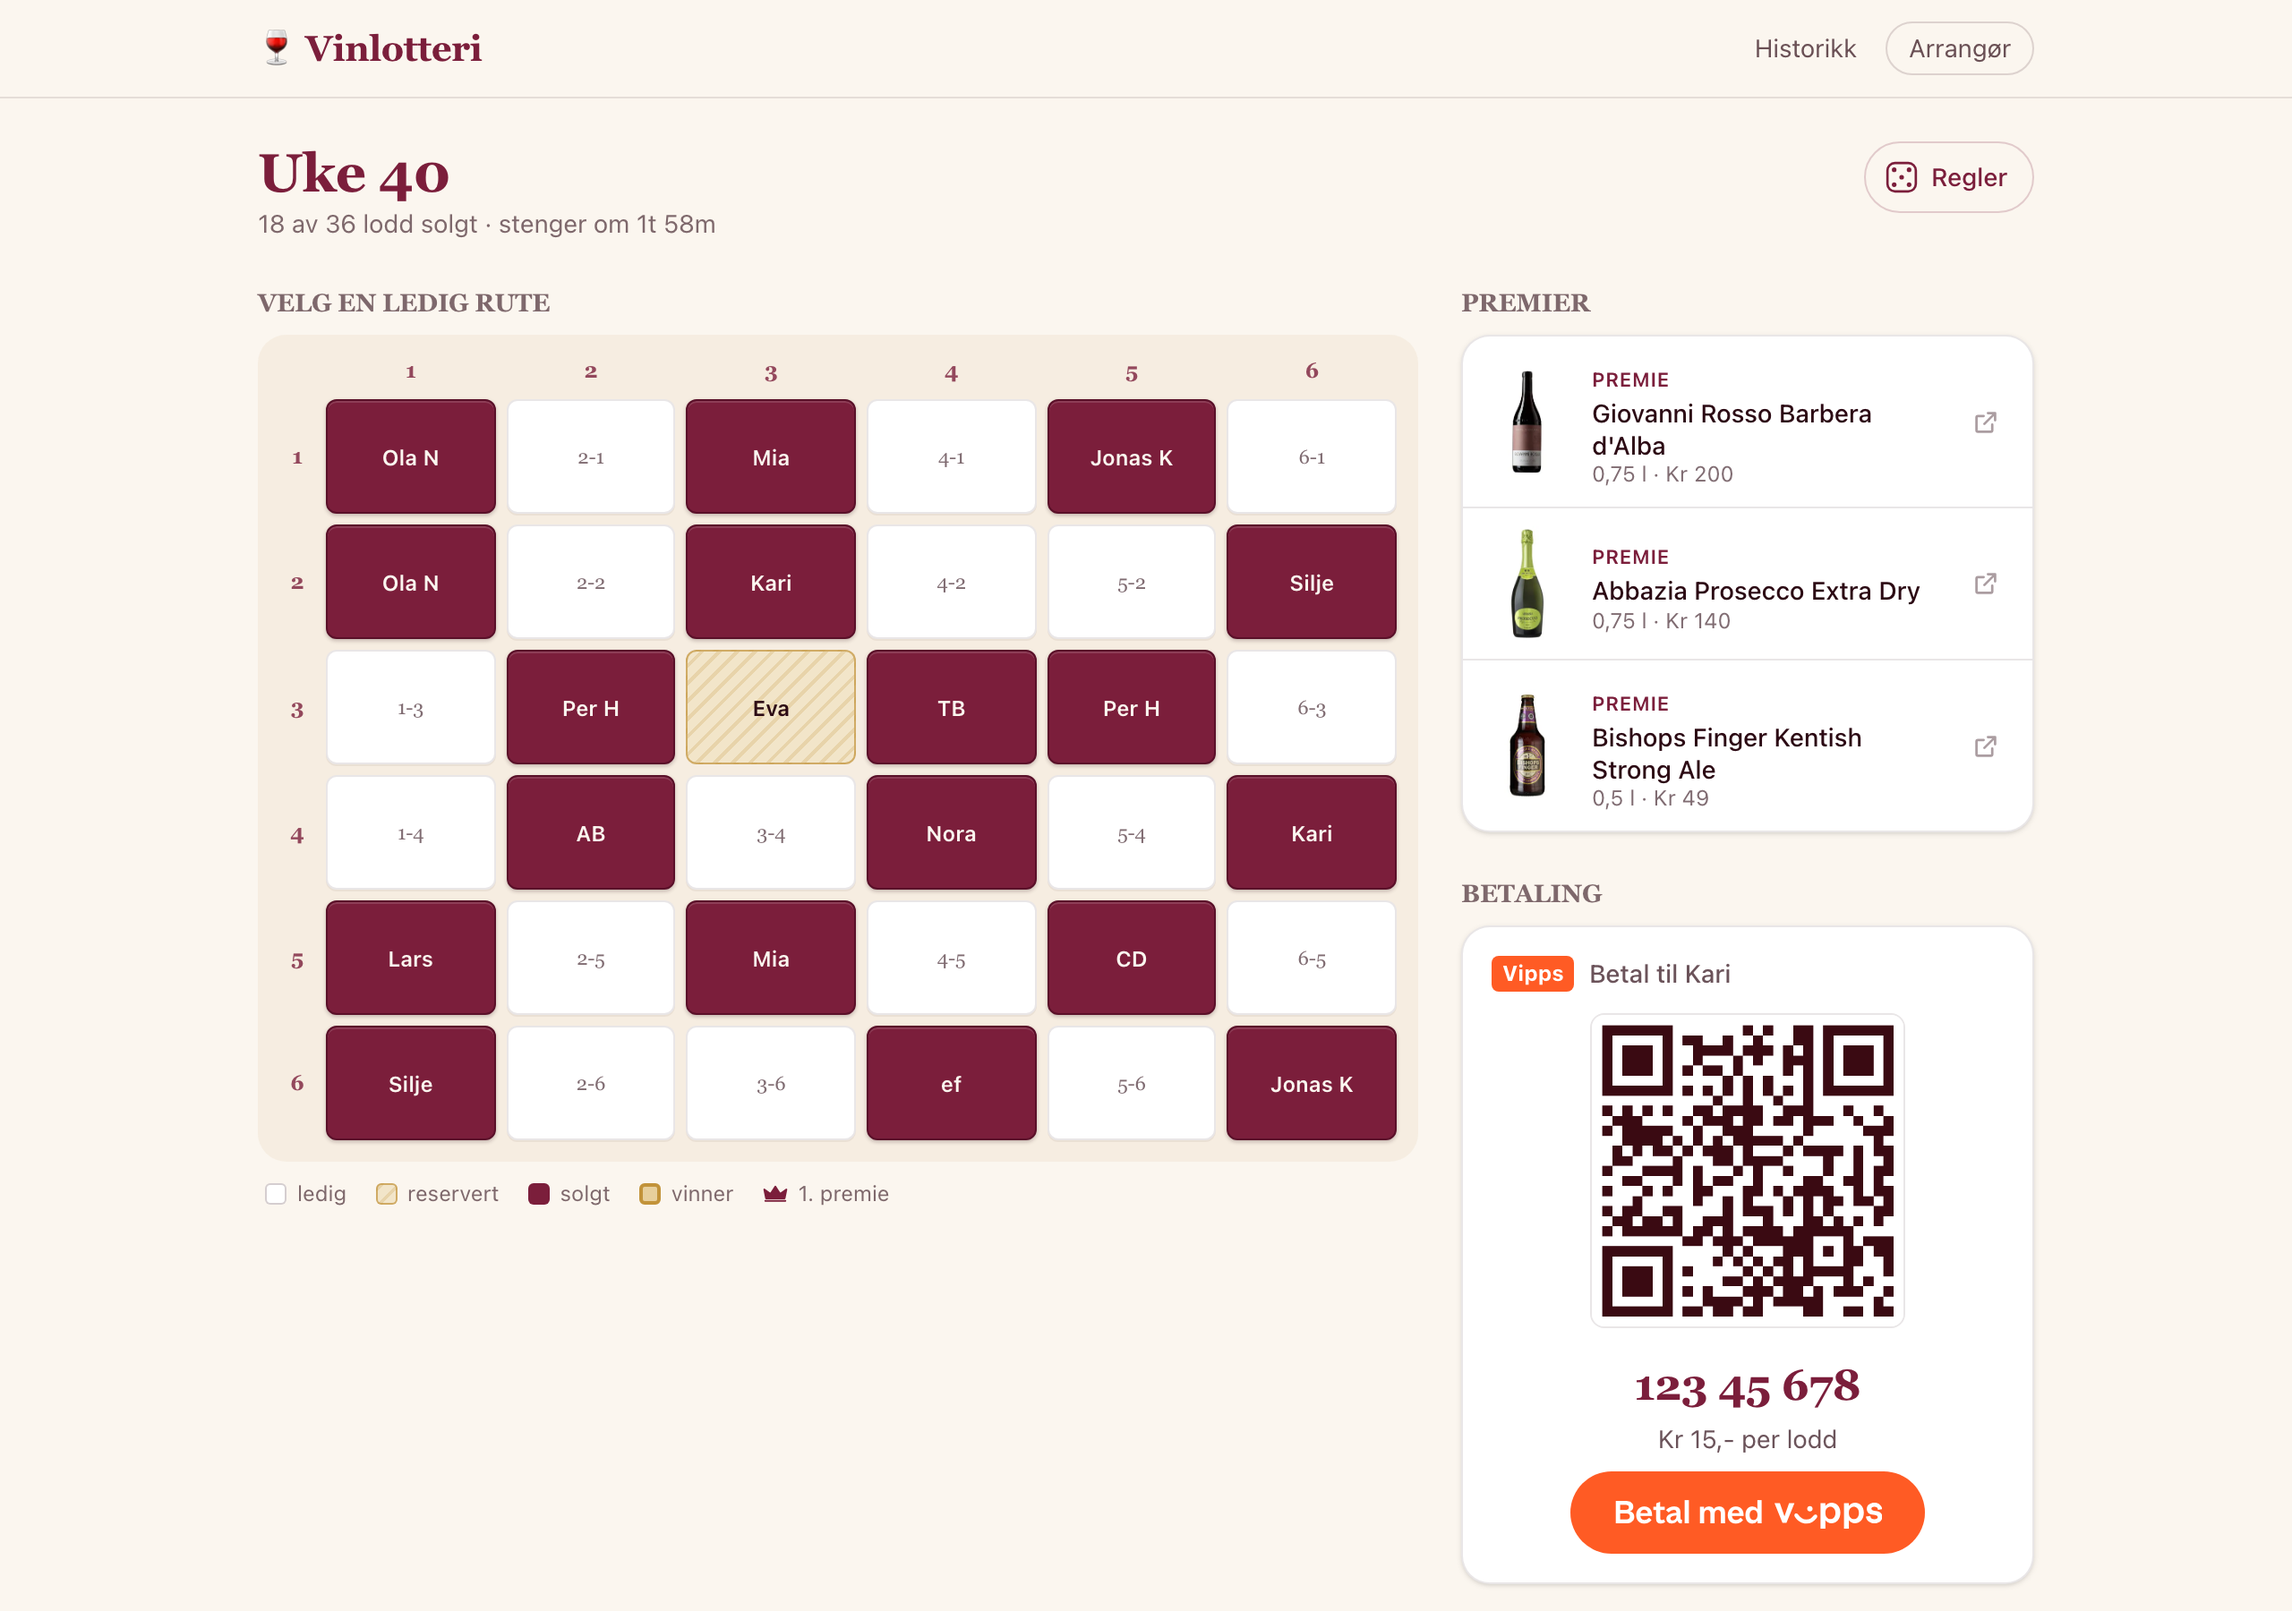
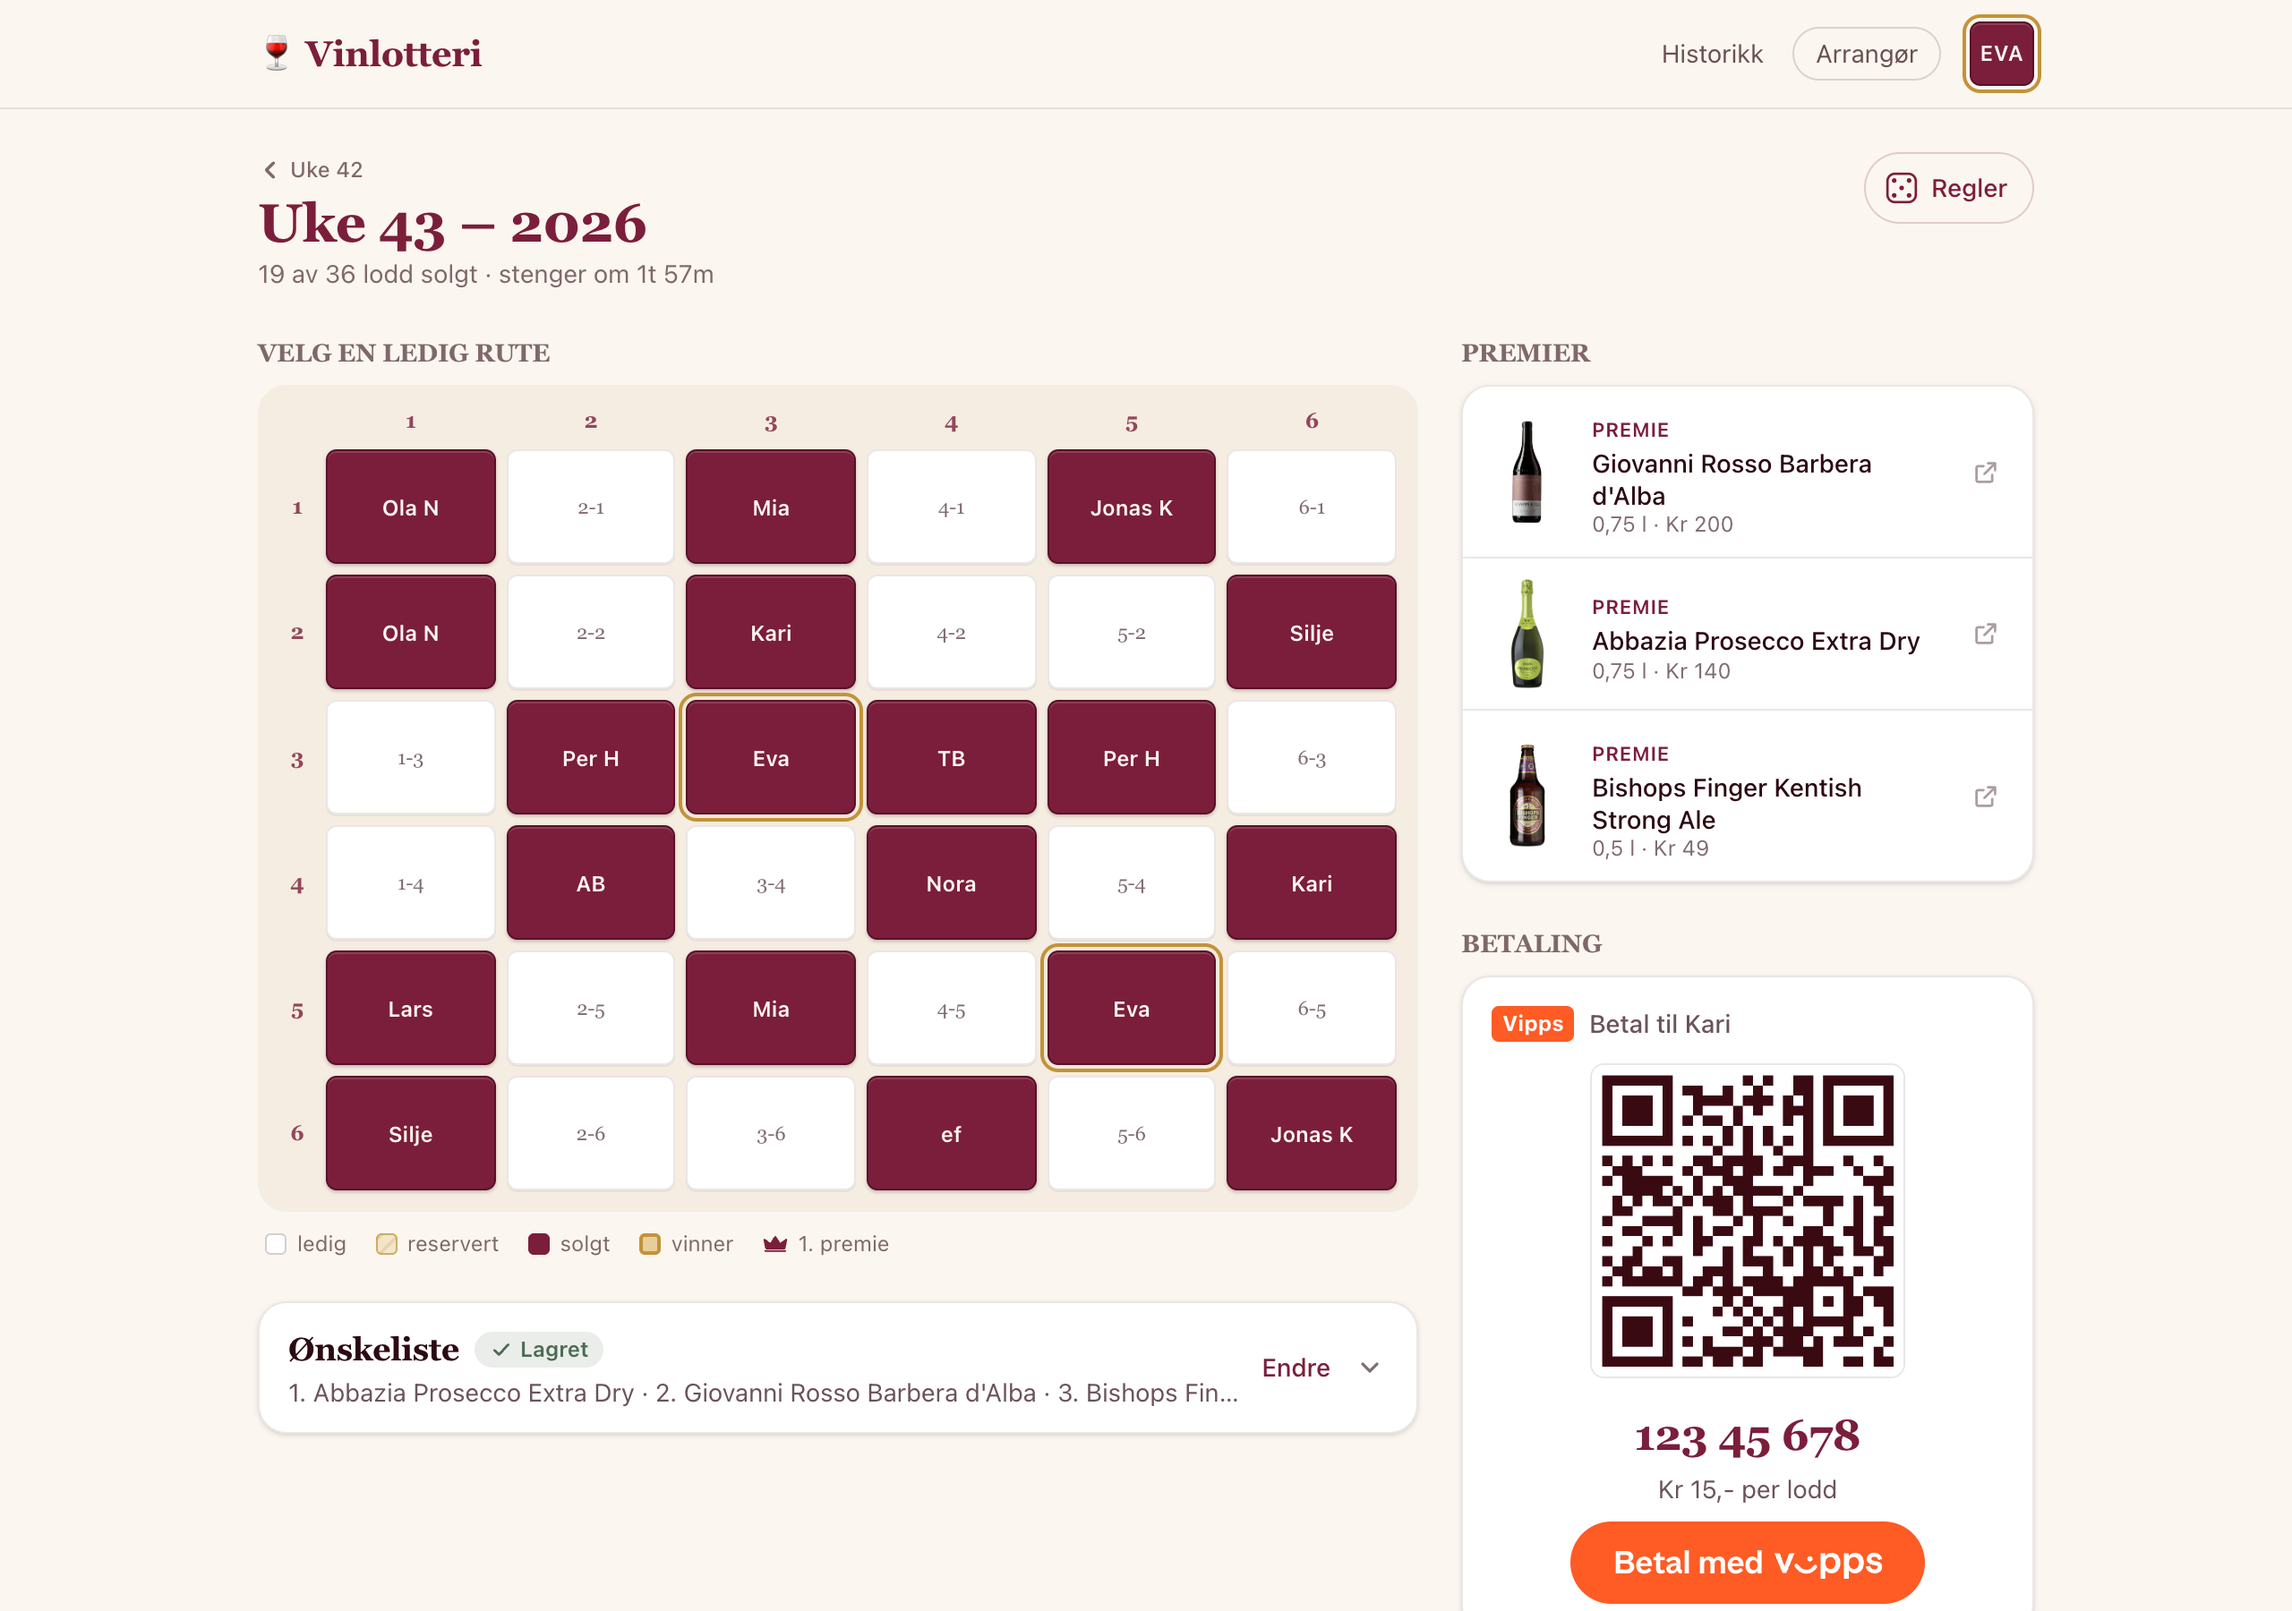
Nytt skjermbilde av rutenettet med profil og ønskeliste

diff --git a/README.md b/README.md
@@ -5,7 +5,7 @@ ser premiene, velger en ledig rute, skriver navnet sitt og betaler med Vipps. Ar
 runden, huker av betalinger og kjører trekningen.
 
 <p align="center">
-  <img src="docs/screenshots/rutenett-desktop.png" alt="Rutenettet med ledige og solgte ruter, premier og Vipps-betaling" width="900">
+  <img src="docs/screenshots/rutenett-desktop.png" alt="Rutenettet med ledige og solgte ruter, profil, ønskeliste, premier og Vipps-betaling" width="900">
 </p>
 
 ## Skjermbilder
